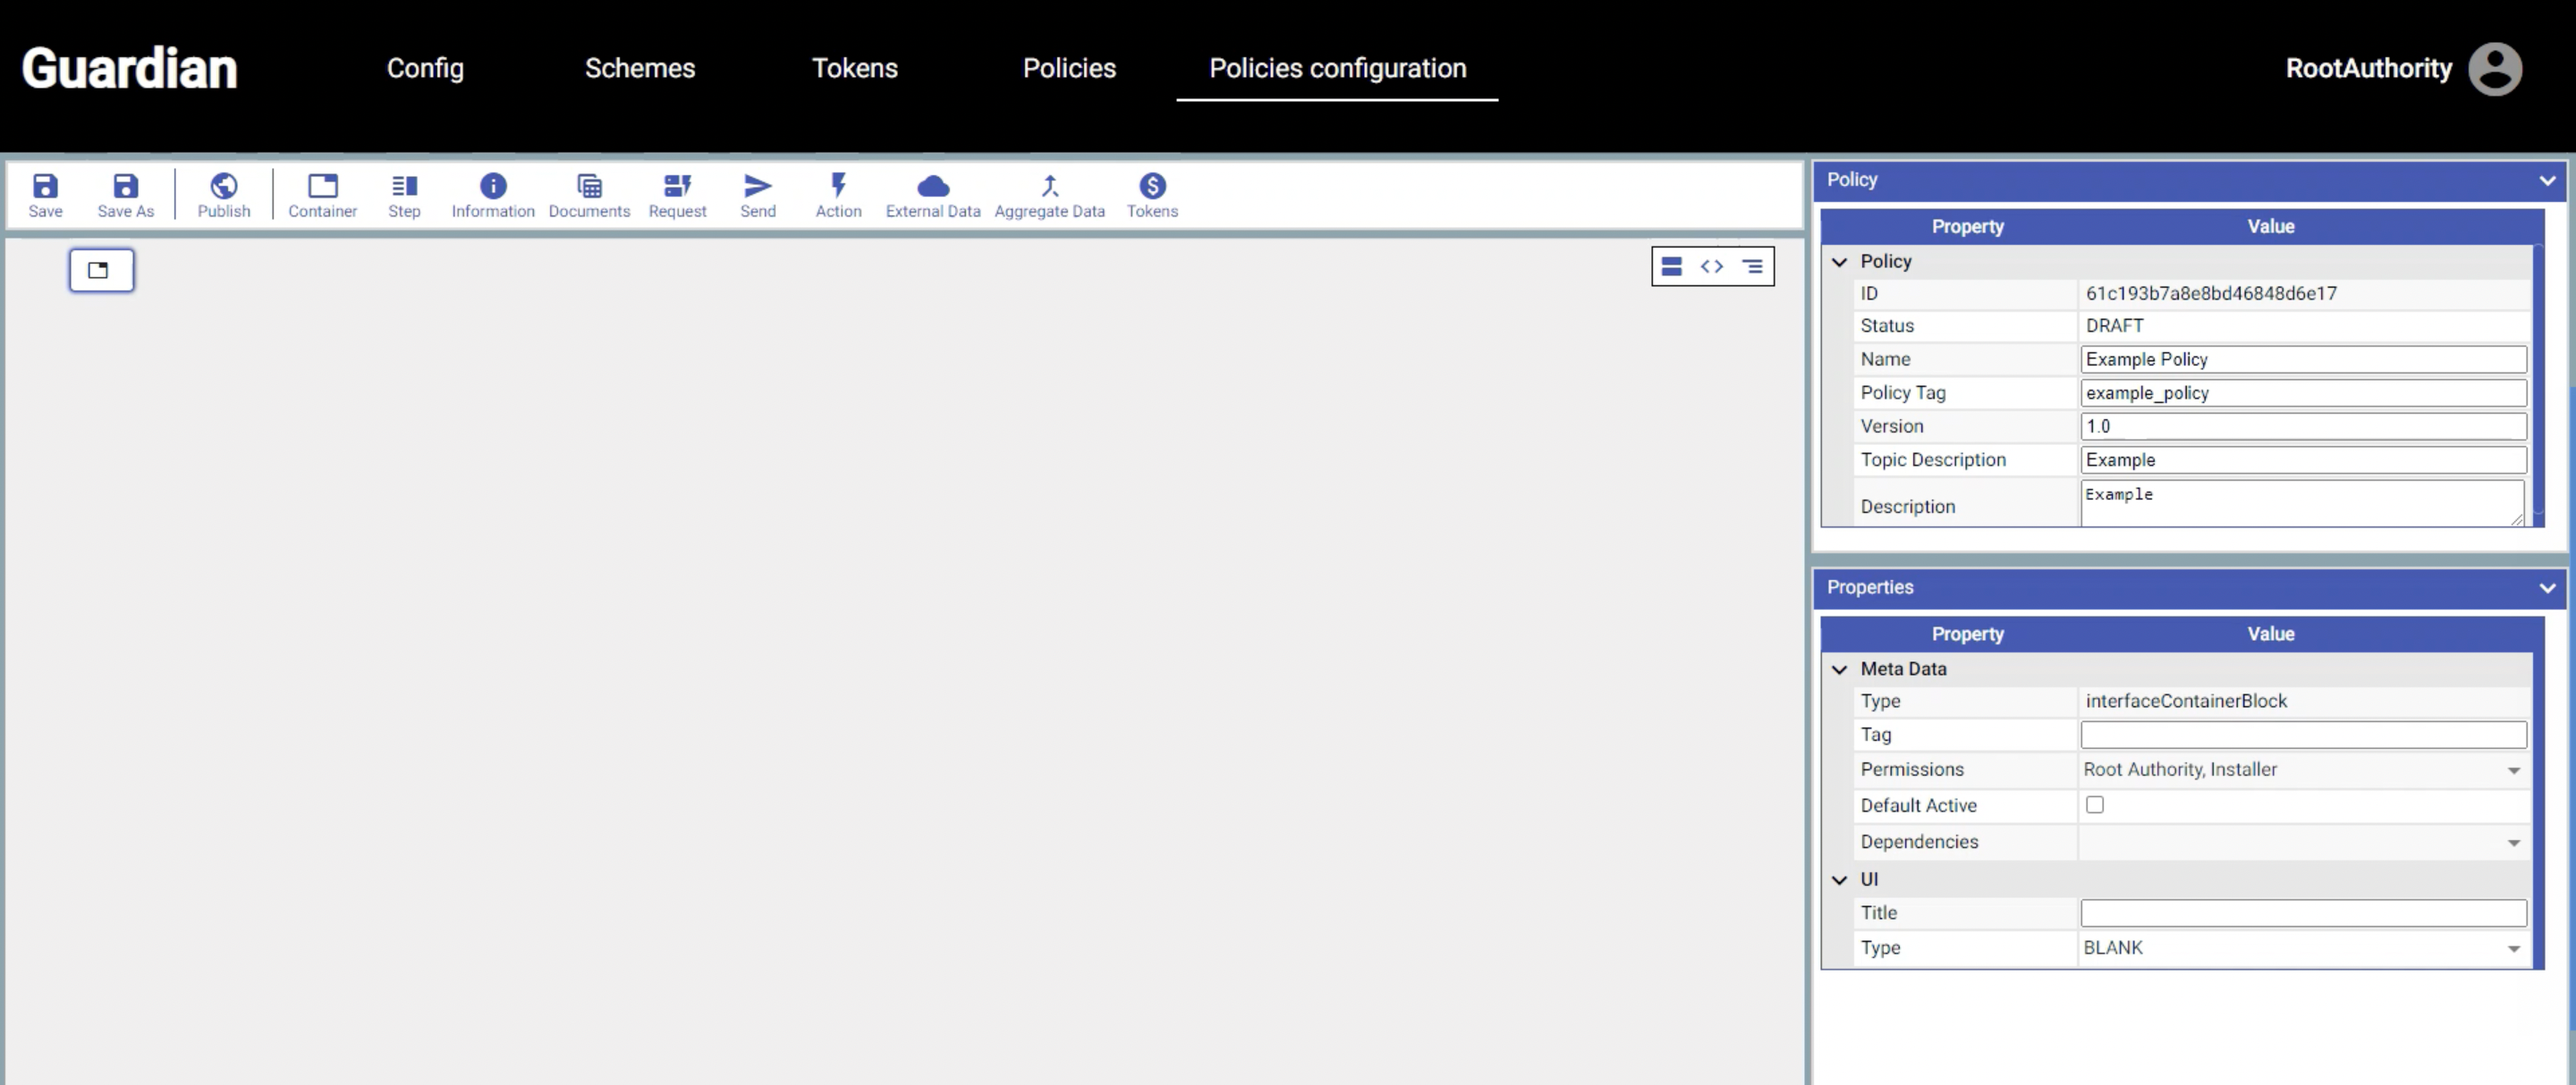
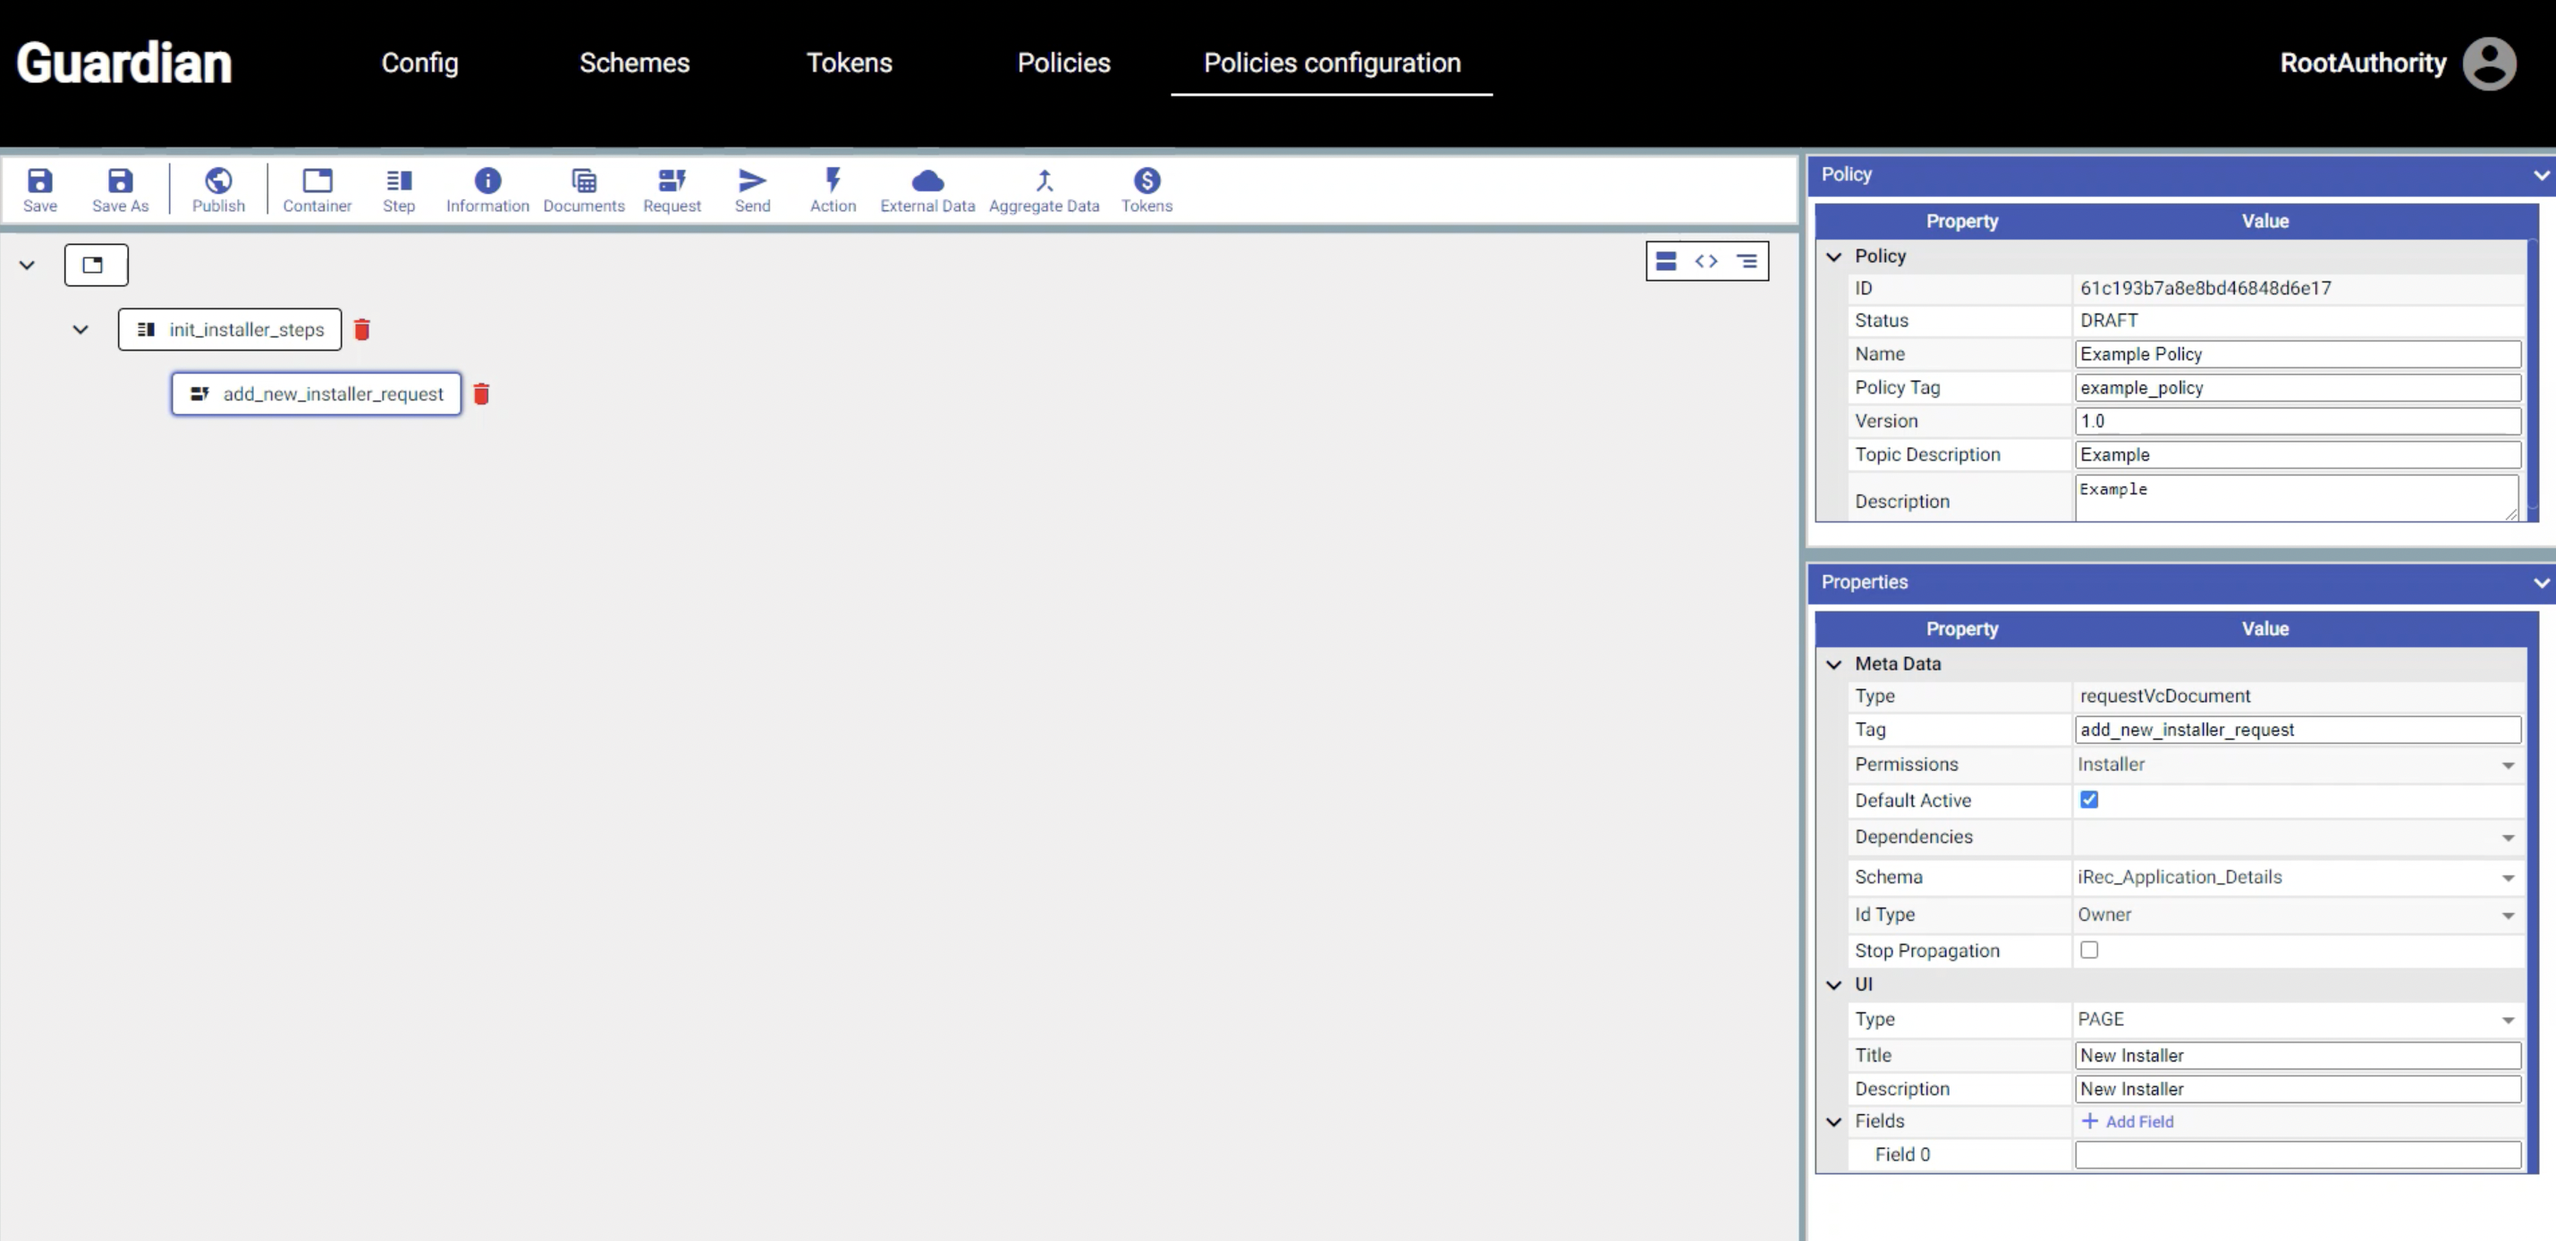
GitBook: [#10] No subject

Changed region(s): [[0.0, 0.0305, 1.0, 1.0], [0.8097, 0.701, 0.9031, 0.7619]]

diff --git a/docs/policy-workflow/step-1.md b/docs/policy-workflow/step-1.md
@@ -1,0 +1,37 @@
+# Step 1
+
+Navigate to the top row of the interface, and click on the “Step” button which creates the 1st policy action – called block2 – in the policy workflow, we just created.
+
+&#x20;You can edit the policy action name and the UI will automatically adjust the graphical representation of the policy action on the left side to “initi\_installer\_steps”.
+
+We then select the “Permissions” for this new Policy Action.
+
+And then the UI “Type” as “Blank”.
+
+We then select “Default Active” as true since this policy action must always occur at the beginning of the policy.
+
+Now we have a Policy Action defined, however, without any specific actions
+
+![](<../.gitbook/assets/image (1).png>)
+
+**Programmatically this workflow step looks like this:**
+
+```
+// After the role is selected the corresponding branch in the policy will become accessible for the user.
+{
+  //"interfaceStepBlock" - similar to the interfaceContainerBlock, with the difference that it can only render a single child element.
+  //Rendered component is determined by the current step.
+  //An event on a component automatically passes control to the next component.
+  "blockType": "interfaceStepBlock",
+  "defaultActive": true,
+  "tag": "init_installer_steps",
+  "permissions": [
+    //This block is only accessible to users with the INSTALLER role.
+    "INSTALLER"
+  ],
+  "uiMetaData": {
+    //Currently there is only one type - "blank".
+    //Only 1 active block is rendered.
+    "type": "blank"
+  },
+```

diff --git a/docs/policy-workflow/getting-started.md b/docs/policy-workflow/getting-started.md
@@ -34,7 +34,7 @@ And we select Root-Authority and Installer in the drop-down as available roles i
 
 Then we select the “type” of UI we want to utilize. In our example, we choose the “Blank” template.
 
-![](<../.gitbook/assets/image (1).png>)
+![](<../.gitbook/assets/image (1) (1).png>)
 
 **Programmatically you begin like this:**
 

diff --git a/docs/SUMMARY.md b/docs/SUMMARY.md
@@ -4,6 +4,7 @@
 
 * [Page 2](README.md)
 
-## Policy Overflow
+## Policy Workflow
 
-* [Getting started](policy-overflow/getting-started.md)
+* [Getting started](policy-workflow/getting-started.md)
+* [Step 1](policy-workflow/step-1.md)
